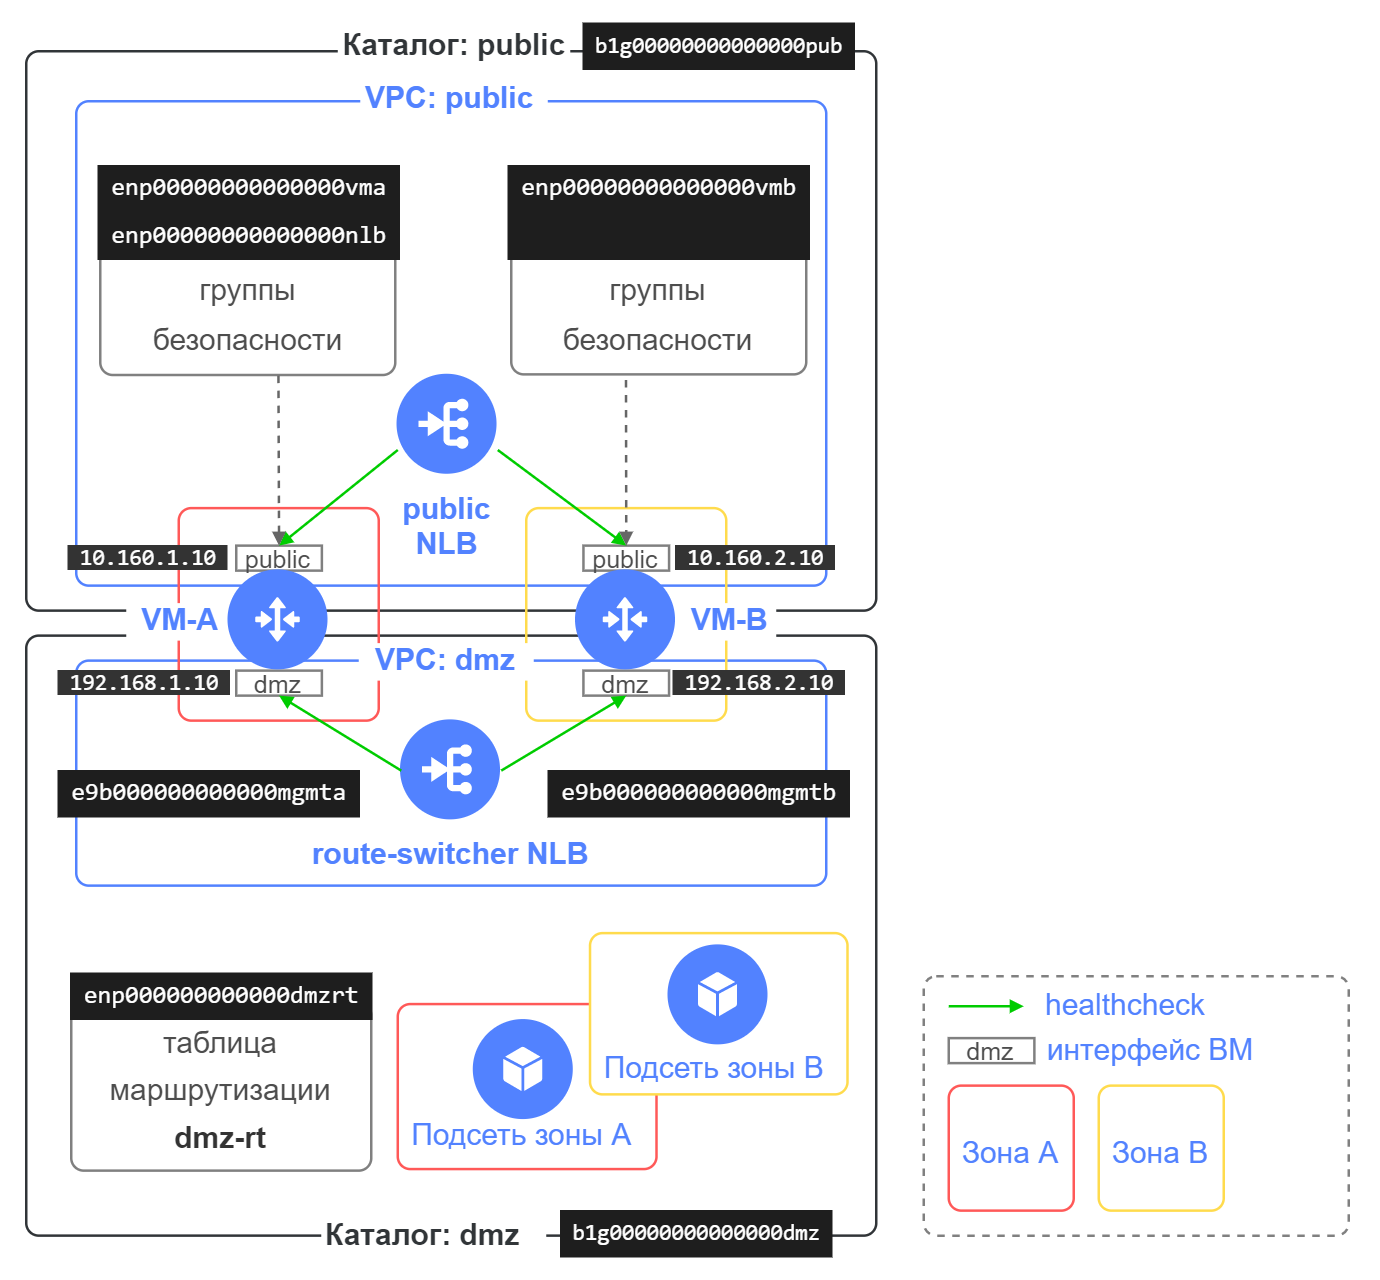
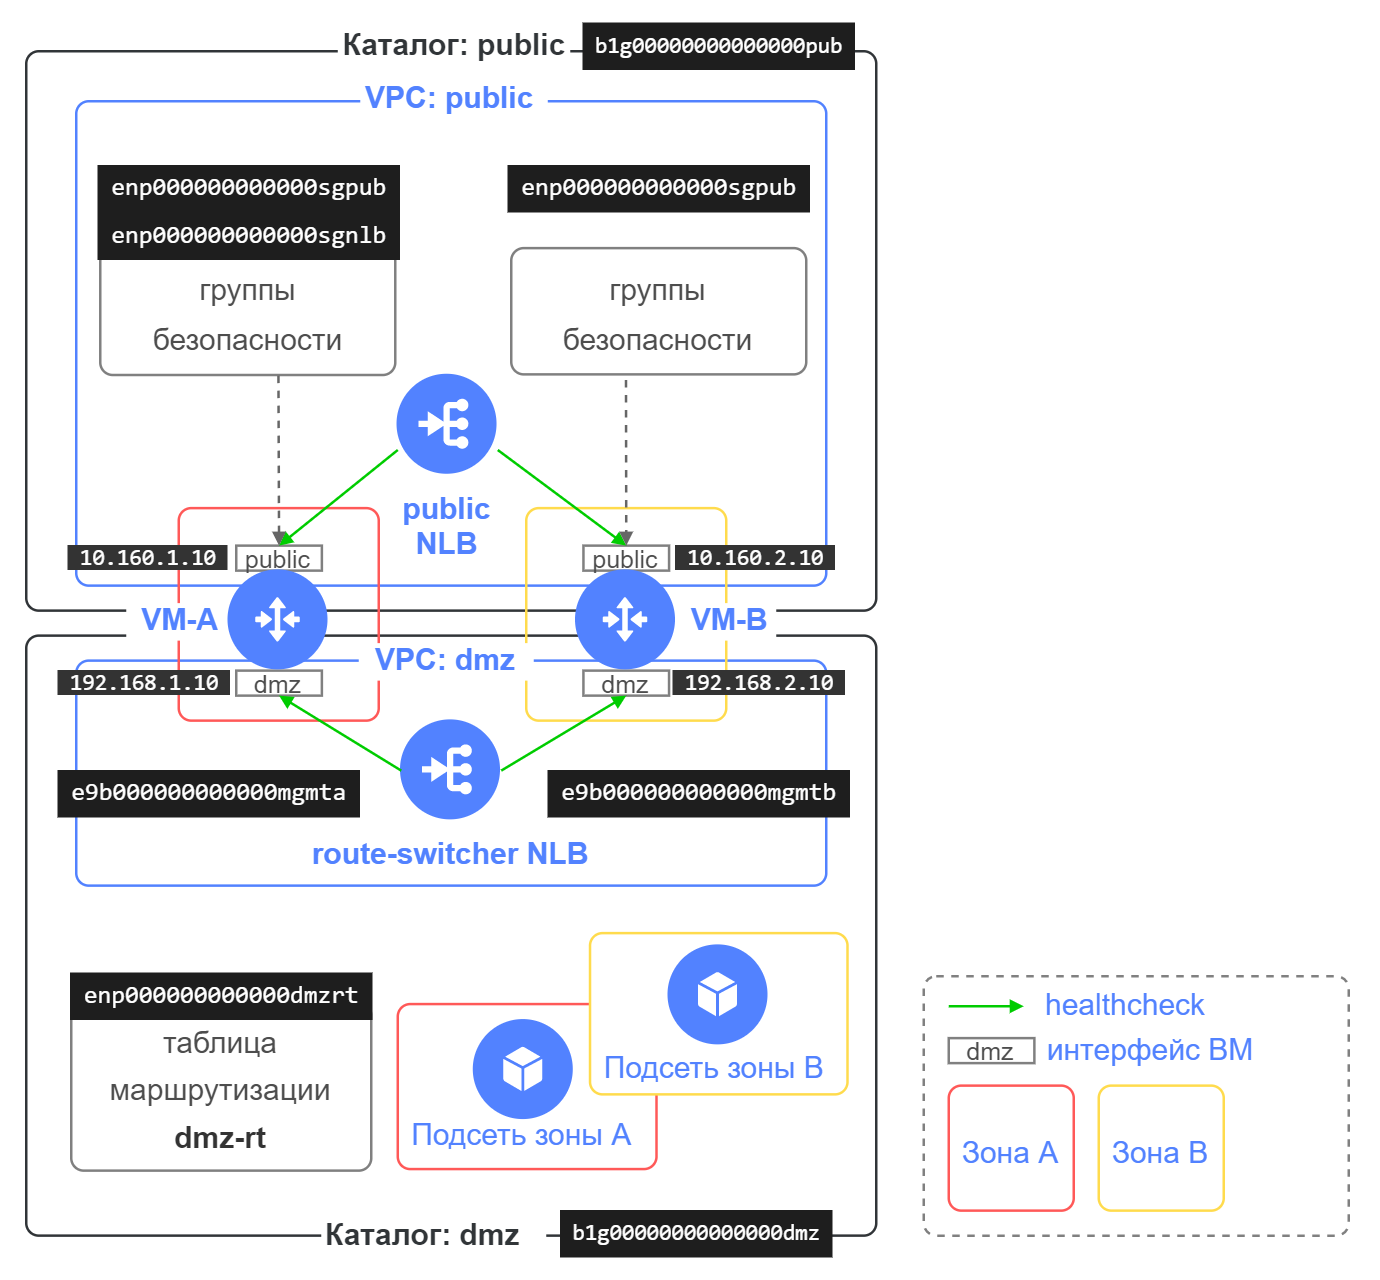
Updated README.md

Changed region(s): [[0.3428, 0.125, 0.592, 0.2188], [0.2181, 0.125, 0.2804, 0.1875]]

diff --git a/README.md b/README.md
@@ -28,7 +28,12 @@
 
 В облачной сети Yandex Cloud не поддерживается работа протоколов VRRP/HSRP между сетевыми ВМ.
 
-Модуль route-switcher позволяет переключить исходящий из сегмента трафика при отказе сетевой ВМ на резервную ВМ.
+Модуль route-switcher позволяет при отказе сетевой ВМ переключить на резервную ВМ:
+- исходящий из сегмента трафика
+- входящий в сегмент трафик через балансировщик нагрузки (опционально)
+
+
+### Отказоустойчивость для исходящего из сегмента трафика
 
 В примере на схеме VM-A и VM-B работают в режиме Active/Standby для исходящего трафика из сегмента.
 
@@ -39,19 +44,53 @@
 <img src="./images/traffic_flows_failure.png" alt="Прохождение трафика через VM-B при отказе VM-A для исходящего направления" width="500"/>
 
 
+### Отказоустойчивость для входящего в сегмент трафика
+
+В примере на схеме VM-A и VM-B работают в режиме Active/Standby для входящего в сегмент трафика. Балансировщик нагрузки в сегменте public, целевыми ресурсами которого являются VM-A и VM-B, направляет трафик только на VM-A и при ее отказе направляет трафик на резервную VM-B. 
+
+<img src="./images/traffic_flows_with_sg.png" alt="Прохождение трафика через сетевые ВМ для входящего направления" width="500"/>
+
+Public интерфейсу VM-A назначены две группы безопасности: одна с правилами для работы необходимых сервисов, другая с правилами для прохождения [проверок доступности ресурсов](https://yandex.cloud/ru/docs/network-load-balancer/concepts/health-check) в сетевом балансировщике.
+Public интерфейсу VM-B назначена одна группа безопасности с правилами для работы необходимых сервисов.
+
+В случае отказа VM-A модуль route-switcher переключает группы безопасности между интерфейсами сетевых ВМ, обеспечивая успешное прохождение проверок состояний для VM-B и переключение входящего трафика на VM-B через балансировщик нагрузки. 
+
+<img src="./images/traffic_flows_failure_with_sg.png" alt="Прохождение трафика через VM-B при отказе VM-A для входящего направления" width="500"/> 
+
+В Yandex Cloud возможно развернуть два вида балансировщиков нагрузки:
+- Сетевой балансировщик [Network Load Balancer](https://yandex.cloud/ru/docs/network-load-balancer/concepts/) с поддержкой протоколов TCP, UDP
+- L7-балансировщик [Application Load Balancer](https://yandex.cloud/ru/docs/application-load-balancer/concepts/) с поддержкой протоколов HTTP/HTTPS, gRPC, TCP
+
+
+> **Примечание**
+> 
+> 1. Если в сценарии использования сетевых ВМ не требуется обеспечить отказоустойчивость для входящего в сегмент трафика, переключение групп безопасности для сетевых ВМ не настраивается в параметрах модуля route-switcher.
+> 
+> 2. При использовании сетевого балансировщика Network Load Balancer учитывайте [особенности сходимости маршрутизации в зоне доступности](https://yandex.cloud/ru/docs/network-load-balancer/concepts/specifics#nlb-zone-converge). 
+
+
 ## Возможности модуля
 - Переключение next hop адресов в таблицах маршрутизации при отказе сетевой ВМ на резервную ВМ  
 - Возврат next hop адресов в таблицах маршрутизации на сетевую ВМ после ее восстановления (настраиваемая опция)
-- Среднее время реакции на сбой: 1 мин. Возможно уменьшение этого времени (см. [подробности](#алгоритм-работы-функции-route-switcher)).
+- Переключение групп безопасности между интерфейсами двух сетевых ВМ при отказе ВМ и восстановлении ВМ (настраиваемая опция) для обеспечения отказоустойчивости входящего трафика через балансировщики нагрузки
+- Среднее время переключения next hop адресов в таблицах маршрутизации: 1 мин. Возможно уменьшение этого времени (см. [подробности](#алгоритм-работы-функции-route-switcher)).
+- Среднее время переключения групп безопасности на интерфейсах сетевых ВМ: 1 мин. Возможно уменьшение этого времени (см. [подробности](#алгоритм-работы-функции-route-switcher)). 
 - Работа с сетевыми ВМ, имеющими несколько сетевых интерфейсов в разных VPC
 - Поддержка нескольких таблиц маршрутизации в разных VPC
 - В качестве next hop в таблице маршрутизации можно указывать разные сетевые ВМ для разных префиксов
-- Поддержка нескольких сетевых ВМ (минимум 2)
+- Поддержка нескольких сетевых ВМ (минимум 2) для переключения next hop адресов
+- Поддержка переключения групп безопасности для нескольких сетевых интерфейсов ВМ
 - Указание TCP порта для проверки доступности сетевых ВМ
 - Логирование работы модуля в Cloud Logging
-- Поставка метрик о работе модуля в Yandex Monitoring
-- Переключение групп безопасности между интерфейсами сетевых ВМ при отказе и восстановлении ВМ для использования в сценариях с балансировщиками нагрузки 
+- Мониторинг работы модуля с помощью метрик в Yandex Monitoring
 
+## Обеспечение отказоустойчивости для входящего трафика
+
+Модуль route-switcher позволяет переключать входящий в сегмент трафик при отказе сетевой ВМ на резервную ВМ. Балансировщик нагрузки, целевыми ресурсами которого являются сетевые ВМ, направляет трафик только на одну сетевую ВМ и при ее отказе направляет трафик на резервную ВМ. Модуль route-switcher переключает группы безопасности между интерфейсами сетевых ВМ в случае отказа и восстановления ВМ, обеспечивая успешное прохождение проверок состояний только у одной сетевой ВМ. Таким образом реализуется работа сетевых ВМ в режиме Active/Standby.
+
+В примере на схеме VM-A и VM-B работают в режиме Active/Standby для входящего в сегмент трафика через сетевой балансировщик нагрузки в сегменте public.
+Public интерфейс VM-A имеет две группы безопасности: одна содержит правила для работы необходимых сервисов, другая группа содержит правила для работы [проверок состояний](https://yandex.cloud/ru/docs/network-load-balancer/concepts/health-check) сетевого балансировщика.
+Public интерфейс VM-B имеет одну группу безопасности с правилами для работы необходимых сервисов.
 
 ## Компоненты модуля
 
@@ -78,6 +117,8 @@
 
 Функция route-switcher вызывается по триггеру раз в минуту (значение по умолчанию), проверяет в каком состоянии находятся сетевые ВМ, и в случае недоступности сетевых ВМ переключает next hop адреса в таблицах маршрутизации. При восстановлении сетевой ВМ функция route-switcher возвращает ее next hop адреса в таблицах маршрутизации (если настроена такая опция).
 
+Если заданы параметры для переключения групп безопасности на интерфейсах сетевых ВМ, то в случае недоступности сетевой ВМ происходит переключение групп безопасности между интефрейсами сетевых ВМ 
+
 Возможно уменьшить интервал между последовательными проверками состояния сетевых ВМ во время работы облачной функции с помощью задания параметра `router_healthcheck_interval` во входных параметрах модуля. По умолчанию это значение 60 с. Если меняется значение по умолчанию, то рекомендуется дополнительно провести тестирование сценариев отказоустойчивости. Не рекомендуется устанавливать значение интервала менее 10 с.
 
 ![Алгоритм работы функции route-switcher](./images/route-switcher-alg.png)
@@ -95,7 +136,7 @@
 | `route_table_folder_list` | Список ID каталогов, в которых размещены таблицы маршрутизации из списка `route_table_list` | `list(string)` | `[]` | да |
 | `route_table_list` | Список ID таблиц маршрутизации, для которых требуется переключение next hop адресов | `list(string)` | `[]` | да |
 | `router_healthcheck_port` | TCP порт для проверки доступности сетевых ВМ. Этот порт на сетевой ВМ становится недоступным для подключения. |  `number` | `null` | да |
-| `back_to_primary` | Включить или отключить возврат next hop адресов в таблицах маршрутизации на сетевую ВМ после ее восстановления. Используется значение `true` для включения, `false` для выключения. | `bool` | `true` | нет |
+| `back_to_primary` | Включить или отключить возврат next hop адресов в таблицах маршрутизации на сетевую ВМ после ее восстановления. Включить или отключить возврат исходных групп безопасности на интерфейсах сетевой ВМ после ее восстановления. Используется значение `true` для включения, `false` для выключения. | `bool` | `true` | нет |
 | `routers` | Список конфигураций сетевых ВМ. Смотрите [параметры routers](#параметр-routers). | `list(object)` | `[]` | да |
 | `router_healthcheck_interval` | Интервал в секундах между последовательными проверками состояния сетевых ВМ во время работы облачной функции route-switcher. Значение интервала может быть не менее 10 с. Если меняется значение по умолчанию, то рекомендуется дополнительно провести тестирование сценариев отказоустойчивости.  | `number` | `60` | нет |
 | `security_group_folder_list` | Список ID каталогов, в которых размещены группы безопасности в [параметре interfaces](#параметр-interfaces) | `list(string)` | `[]` | да, для переключения групп безопасности |
@@ -240,7 +281,7 @@ module "route_switcher" {
         },
         {
           index = 1
-          security_group_ids = ["enp00000000000000vma", "enp00000000000000nlb"]
+          security_group_ids = ["enp000000000000sgpub", "enp000000000000sgnlb"]
         }
       ]
     },
@@ -255,7 +296,7 @@ module "route_switcher" {
         },
         {
           index = 1
-          security_group_ids = ["enp00000000000000vmb"]
+          security_group_ids = ["enp000000000000sgpub"]
         }
       ]
     }
